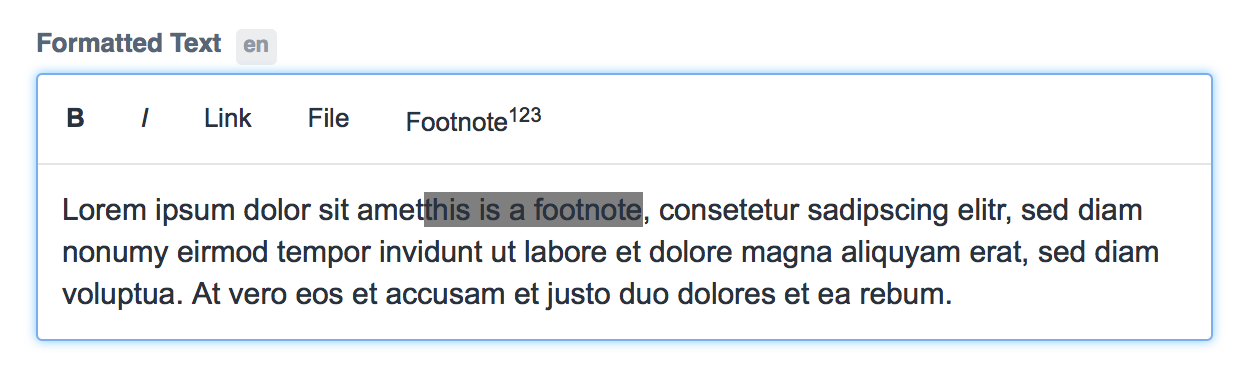
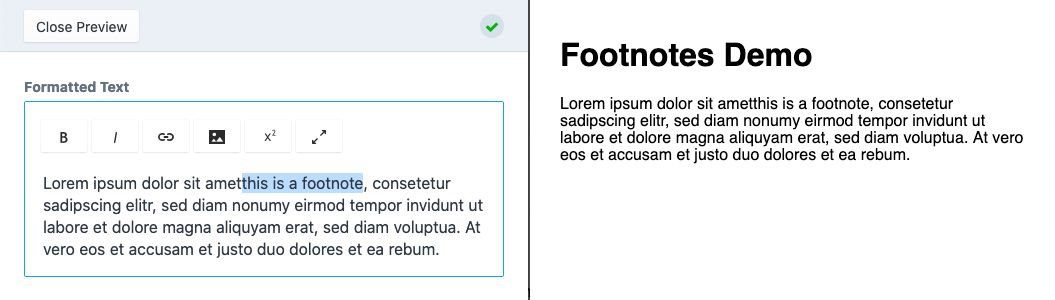
update docs

diff --git a/README.md b/README.md
@@ -1,12 +1,30 @@
 # Craft Footnotes
 
-This Craft plugin enables you to define footnotes for your website contents.
+You can find here a footnotes plugin for Craft CMS 3.
 
-The plugin adds a footnote button to RichText fields. Marked parts of your text content will be said to act as footnotes after clicking the button.
+*… Looking for the Craft CMS 2 footnotes plugin? – Get the [1.1.3 release](https://github.com/Vierbeuter/craft-footnotes/tree/1.1.3).*
+
+## Contents
+
+* [About](#about)
+* [Disclaimer](#disclaimer)
+* [Install](#install)
+* [Usage](#usage)
+	* [TL;DR](#tl-dr)
+	* [Usage for Developers](#usage-for-developers)
+	* [Usage for editors](#usage-for-editors)
+* [License](#license)
+
+## About
+
+This Craft CMS plugin enables you to **define footnotes for your website** contents.
+
+![rich text field with footnote button](./README-pics/footnotes-demo.gif)
+
+The plugin adds a footnote button to Redactor fields (aka RichtText or WYSIWYG). Marked parts of your text content will be said to act as footnotes after clicking the button.
 Also, it adds new filters and functions to your Twig templates that help you handling with the footnotes.
 
-![rich text field with footnote button](./README-pics/01.png)
-![rich text field with text containing a footnote](./README-pics/05.png)
+⬆ [back to top](#contents)
 
 ## Disclaimer
 
@@ -14,17 +32,25 @@ This plugin is by far not perfect. It's intentionally held simple. If you want a
 
 Also, lots of translations are missing (see TODO in [footnotebutton.js](./src/assetbundles/redactor/dist/footnotebutton.js) for details). Any pull requests are welcome.
 
+⬆ [back to top](#contents)
+
 ## Install
 
-Just copy the whole _[footnotes](./footnotes/)_ folder to your Craft project's plugin directory (which is _./craft/plugins/_ by default).
+Just load the PHP package using Composer:
 
-Now, log in to your Craft project's admin panel, go to plugin settings and install/activate the **Footnotes** plugin.
+```bash
+composer require vierbeuter/craft-footnotes
+```
 
-That's it.
+Now, log in to your Craft project's admin panel, head to plugin settings (*&lt;yourdomain.tld&gt;/admin/settings/plugins*) and install/activate the Footnotes plugin.
+
+👍 That's it.
 
 You may now go to the plugin's settings page and activate the `enableAnchorLinks` option unless you want the plugin to just print non-clickable numbers for the footnotes.
 
 ![settings page with option to enable anchor links](./README-pics/setting-anchor-links.png)
+
+⬆ [back to top](#contents)
 
 ## Usage
 
@@ -35,16 +61,17 @@ You may now go to the plugin's settings page and activate the `enableAnchorLinks
 3. use `footnotes` filter in Twig templates to collect all footnotes and replace them with sequential numbers
 4. iterate and output each footnote by calling `footnotes()` function in Twig template
 
+⬆ [back to top](#contents)
 
 ### Usage for Developers
 
-#### Add the footnote button to the RichText field
+#### Add the footnote button to the Redactor field
 
-You need to edit the used redactor configs unless you want the content editor to manually type HTML tags when editing sections and creating entries.
+You need to edit the used Redactor configs unless you want the content editor to manually type HTML tags when editing sections and creating entries.
 
 Lucky us, this is pretty easy.
 
-Let's have a look at the `Standard` redactor config (which is located at _./craft/config/redactor/Standard.json_).
+Let's have a look at the `Standard` Redactor config (which is located at _./config/redactor/Standard.json_).
 
 ```json
 {
@@ -53,7 +80,7 @@ Let's have a look at the `Standard` redactor config (which is located at _./craf
 }
 ```
 
-You only have to add `footnotebutton` to redactor plugins. This is how the config file looks afterwards.
+You only have to add `footnotebutton` to Redactor plugins. This is how the config file looks afterwards.
 
 
 ```json
@@ -63,7 +90,7 @@ You only have to add `footnotebutton` to redactor plugins. This is how the confi
 }
 ```
 
-Here the same thing for the `Simple` redactor config (_./craft/config/redactor/Simple.json_) if you use that instead.
+Here the same thing for the `Simple` Redactor config (_./config/redactor/Simple.json_) if you use that instead.
 
 Before:
 
@@ -83,7 +110,7 @@ After:
 }
 ```
 
-Feel free to add the `footnotebutton` plugin to any other redactor config as well.
+Feel free to add the `footnotebutton` plugin to any other Redactor config as well.
 
 #### Collect all footnotes and replace with numbers
 
@@ -151,14 +178,30 @@ From there, you might want to add a link that jumps readers back to their positi
 {% endif %}
 ```
 
+⬆ [back to top](#contents)
+
 ### Usage for editors
 
 Write your footnote text directly into the rich text field and mark it.
+
 ![mark text that has to become a footnote](./README-pics/02.png)
-Click the **Footnote<sup>123</sup>** button.
+
+Click the **Footnote** button [x<sup>2</sup>].
+
 ![click the footnote button](./README-pics/03.png)
+
 Here we go…
-![congrats, you created a footnote](./README-pics/04.png)
+
+![congrats, you created a footnote](./README-pics/05.png)
+
 Nothing more to do. You successfully created a footnote.
 
 Do not forget to save the entry. ;)
+
+⬆ [back to top](#contents)
+
+## License
+
+This library is licensed under the terms of the **MIT license**. See also the project's [license file](./LICENSE).
+
+⬆ [back to top](#contents)
